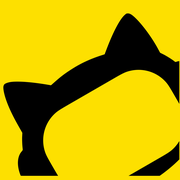
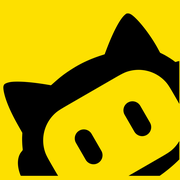
更新投资控制台（主屏图标 + 云同步修复）

Changed region(s): [[0.6667, 0.5556, 0.8611, 0.7778], [0.3889, 0.6944, 0.5833, 0.9167]]

diff --git a/sw.js b/sw.js
@@ -9,7 +9,7 @@
    为什么要这个：手机上「加到主屏」后，如果断网或信号差，
    至少能打开界面看到上次的持仓和档位，不至于一片空白。 */
 
-var CACHE = 'stock-console-v22';
+var CACHE = 'stock-console-v23';
 var ASSETS = [
   './',
   './index.html',
